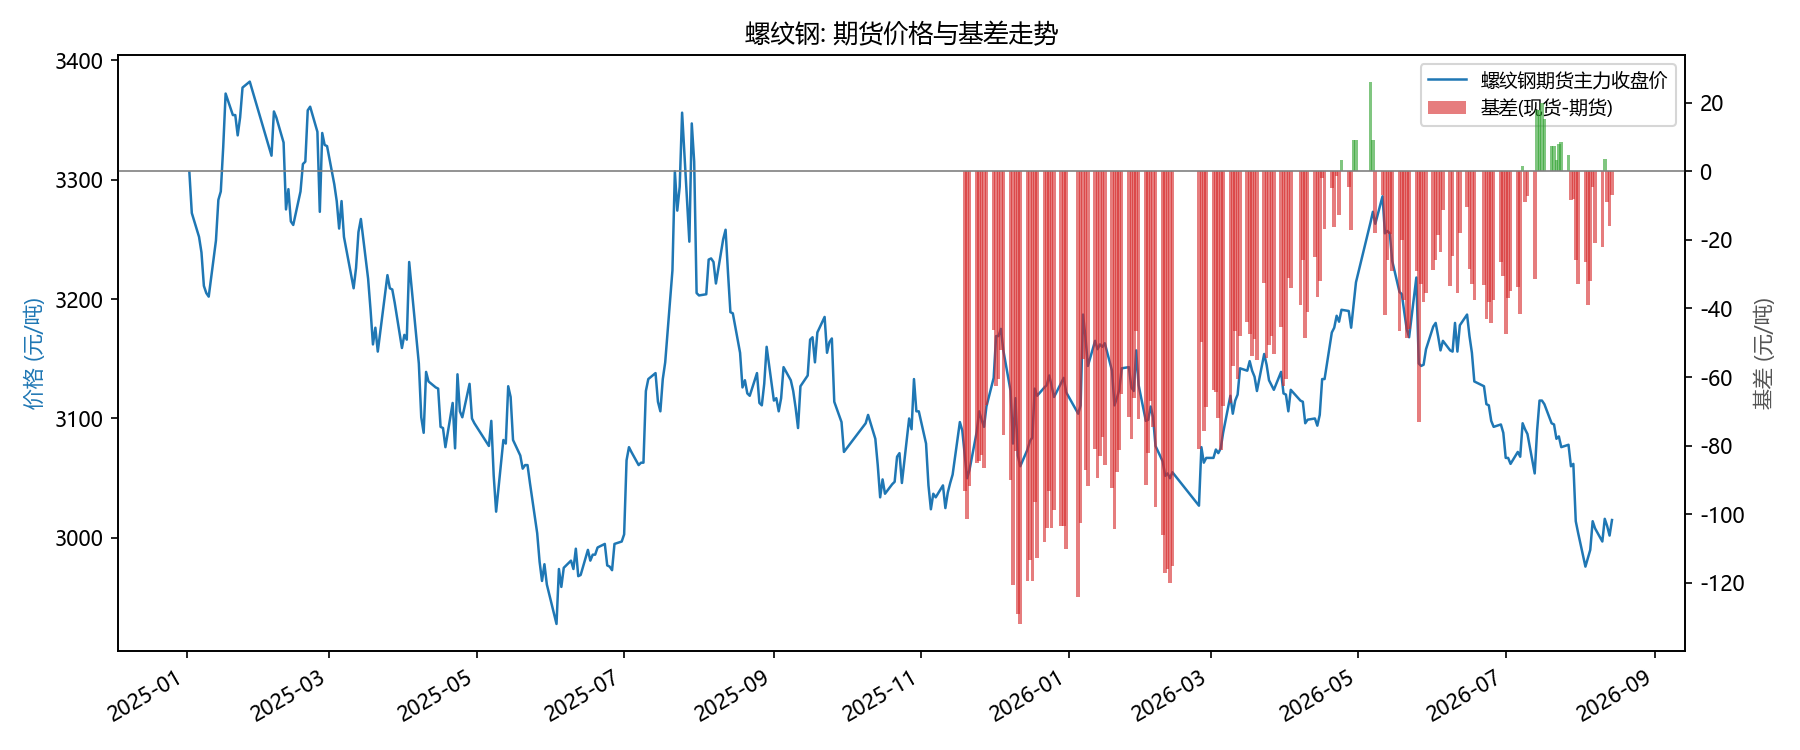
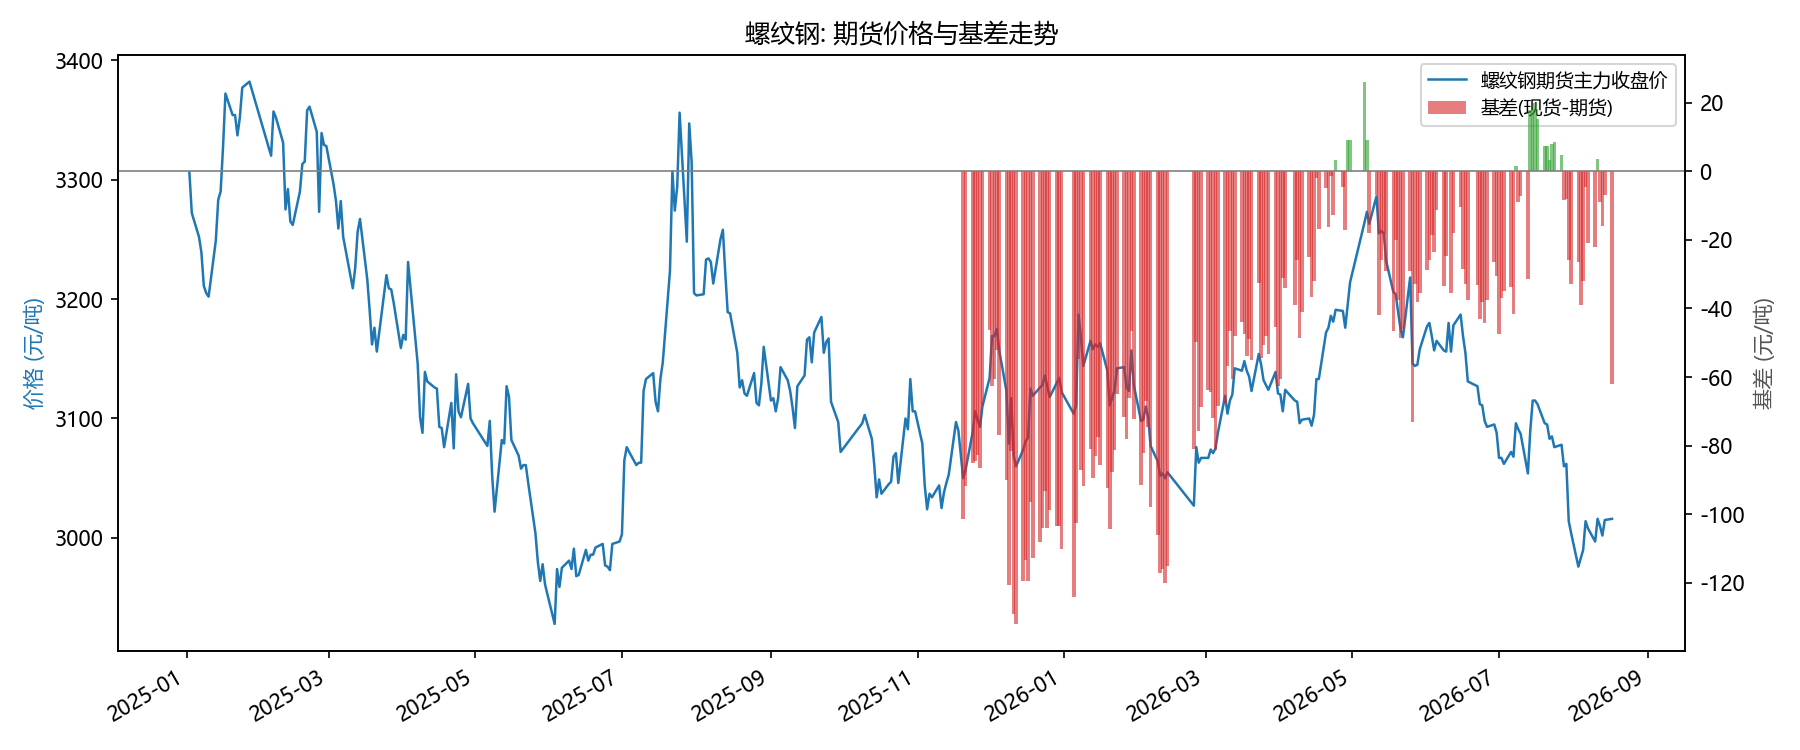
add exact data cutoff dates, refresh black series to 2026-08-17 state

diff --git a/report.html b/report.html
@@ -17,7 +17,7 @@ h1 { text-align: center; color: #222; }
 </style></head>
 <body><div class="container">
 <h1>交易绩效分析报告</h1>
-<div class="sub">数据范围：2025.01 - 2026.08 &nbsp;|&nbsp; 平仓记录：1168 笔 &nbsp;|&nbsp; 数据来源：境外合规平台导出</div>
+<div class="sub">数据范围：2025-01-18 - 2026-08-07（数据截至 2026-08-07）&nbsp;|&nbsp; 平仓记录：1168 笔 &nbsp;|&nbsp; 数据来源：境外合规平台导出</div>
 <div class="cards">
   <div class="card"><div class="num red">-338.66</div><div class="lbl">净盈亏 (单位)</div></div>
   <div class="card"><div class="num">50.4%</div><div class="lbl">胜率</div></div>
@@ -39,11 +39,11 @@ h1 { text-align: center; color: #222; }
     
 </head>
 <body >
-    <div id="caeeb1e0221e4c368c1248da33a5928b" class="chart-container" style="width:1200px; height:420px; "></div>
+    <div id="077438eab2c04fc6861d7f767296dc37" class="chart-container" style="width:1200px; height:420px; "></div>
     <script>
-        var chart_caeeb1e0221e4c368c1248da33a5928b = echarts.init(
-            document.getElementById('caeeb1e0221e4c368c1248da33a5928b'), 'white', {renderer: 'canvas', locale: 'ZH'});
-        var option_caeeb1e0221e4c368c1248da33a5928b = {
+        var chart_077438eab2c04fc6861d7f767296dc37 = echarts.init(
+            document.getElementById('077438eab2c04fc6861d7f767296dc37'), 'white', {renderer: 'canvas', locale: 'ZH'});
+        var option_077438eab2c04fc6861d7f767296dc37 = {
     "animation": true,
     "animationThreshold": 2000,
     "animationDuration": 1000,
@@ -377,7 +377,7 @@ h1 { text-align: center; color: #222; }
         }
     ]
 };
-        chart_caeeb1e0221e4c368c1248da33a5928b.setOption(option_caeeb1e0221e4c368c1248da33a5928b);
+        chart_077438eab2c04fc6861d7f767296dc37.setOption(option_077438eab2c04fc6861d7f767296dc37);
     </script>
 </body>
 </html>
@@ -391,11 +391,11 @@ h1 { text-align: center; color: #222; }
     
 </head>
 <body >
-    <div id="1b07fbb6c93c43c28e30de5eddf4e9d3" class="chart-container" style="width:1200px; height:380px; "></div>
+    <div id="08c32866d6fa42dfa3f4ae241f838a50" class="chart-container" style="width:1200px; height:380px; "></div>
     <script>
-        var chart_1b07fbb6c93c43c28e30de5eddf4e9d3 = echarts.init(
-            document.getElementById('1b07fbb6c93c43c28e30de5eddf4e9d3'), 'white', {renderer: 'canvas', locale: 'ZH'});
-        var option_1b07fbb6c93c43c28e30de5eddf4e9d3 = {
+        var chart_08c32866d6fa42dfa3f4ae241f838a50 = echarts.init(
+            document.getElementById('08c32866d6fa42dfa3f4ae241f838a50'), 'white', {renderer: 'canvas', locale: 'ZH'});
+        var option_08c32866d6fa42dfa3f4ae241f838a50 = {
     "animation": true,
     "animationThreshold": 2000,
     "animationDuration": 1000,
@@ -647,7 +647,7 @@ h1 { text-align: center; color: #222; }
         }
     ]
 };
-        chart_1b07fbb6c93c43c28e30de5eddf4e9d3.setOption(option_1b07fbb6c93c43c28e30de5eddf4e9d3);
+        chart_08c32866d6fa42dfa3f4ae241f838a50.setOption(option_08c32866d6fa42dfa3f4ae241f838a50);
     </script>
 </body>
 </html>
@@ -661,11 +661,11 @@ h1 { text-align: center; color: #222; }
     
 </head>
 <body >
-    <div id="59178b63e18d4219b29f0572c1d0d23d" class="chart-container" style="width:1200px; height:420px; "></div>
+    <div id="f6537cc224564f92a5611950752784df" class="chart-container" style="width:1200px; height:420px; "></div>
     <script>
-        var chart_59178b63e18d4219b29f0572c1d0d23d = echarts.init(
-            document.getElementById('59178b63e18d4219b29f0572c1d0d23d'), 'white', {renderer: 'canvas', locale: 'ZH'});
-        var option_59178b63e18d4219b29f0572c1d0d23d = {
+        var chart_f6537cc224564f92a5611950752784df = echarts.init(
+            document.getElementById('f6537cc224564f92a5611950752784df'), 'white', {renderer: 'canvas', locale: 'ZH'});
+        var option_f6537cc224564f92a5611950752784df = {
     "animation": true,
     "animationThreshold": 2000,
     "animationDuration": 1000,
@@ -896,7 +896,7 @@ h1 { text-align: center; color: #222; }
         }
     ]
 };
-        chart_59178b63e18d4219b29f0572c1d0d23d.setOption(option_59178b63e18d4219b29f0572c1d0d23d);
+        chart_f6537cc224564f92a5611950752784df.setOption(option_f6537cc224564f92a5611950752784df);
     </script>
 </body>
 </html>
@@ -910,11 +910,11 @@ h1 { text-align: center; color: #222; }
     
 </head>
 <body >
-    <div id="567b4e80e7834dacacb7946726074934" class="chart-container" style="width:1200px; height:320px; "></div>
+    <div id="1b9eea89c5e448cbbba7b5f50619742e" class="chart-container" style="width:1200px; height:320px; "></div>
     <script>
-        var chart_567b4e80e7834dacacb7946726074934 = echarts.init(
-            document.getElementById('567b4e80e7834dacacb7946726074934'), 'white', {renderer: 'canvas', locale: 'ZH'});
-        var option_567b4e80e7834dacacb7946726074934 = {
+        var chart_1b9eea89c5e448cbbba7b5f50619742e = echarts.init(
+            document.getElementById('1b9eea89c5e448cbbba7b5f50619742e'), 'white', {renderer: 'canvas', locale: 'ZH'});
+        var option_1b9eea89c5e448cbbba7b5f50619742e = {
     "animation": true,
     "animationThreshold": 2000,
     "animationDuration": 1000,
@@ -1136,7 +1136,7 @@ h1 { text-align: center; color: #222; }
         }
     ]
 };
-        chart_567b4e80e7834dacacb7946726074934.setOption(option_567b4e80e7834dacacb7946726074934);
+        chart_1b9eea89c5e448cbbba7b5f50619742e.setOption(option_1b9eea89c5e448cbbba7b5f50619742e);
     </script>
 </body>
 </html>
@@ -1150,11 +1150,11 @@ h1 { text-align: center; color: #222; }
     
 </head>
 <body >
-    <div id="e07ac6d6efba44e68a79681c1f10a5aa" class="chart-container" style="width:1200px; height:380px; "></div>
+    <div id="8431b029a9d34db19d740ebdd1ae1596" class="chart-container" style="width:1200px; height:380px; "></div>
     <script>
-        var chart_e07ac6d6efba44e68a79681c1f10a5aa = echarts.init(
-            document.getElementById('e07ac6d6efba44e68a79681c1f10a5aa'), 'white', {renderer: 'canvas', locale: 'ZH'});
-        var option_e07ac6d6efba44e68a79681c1f10a5aa = {
+        var chart_8431b029a9d34db19d740ebdd1ae1596 = echarts.init(
+            document.getElementById('8431b029a9d34db19d740ebdd1ae1596'), 'white', {renderer: 'canvas', locale: 'ZH'});
+        var option_8431b029a9d34db19d740ebdd1ae1596 = {
     "animation": true,
     "animationThreshold": 2000,
     "animationDuration": 1000,
@@ -1438,7 +1438,7 @@ h1 { text-align: center; color: #222; }
         }
     ]
 };
-        chart_e07ac6d6efba44e68a79681c1f10a5aa.setOption(option_e07ac6d6efba44e68a79681c1f10a5aa);
+        chart_8431b029a9d34db19d740ebdd1ae1596.setOption(option_8431b029a9d34db19d740ebdd1ae1596);
     </script>
 </body>
 </html>
@@ -1452,11 +1452,11 @@ h1 { text-align: center; color: #222; }
     
 </head>
 <body >
-    <div id="1e2ac8a8cea34669a903b071c901a63d" class="chart-container" style="width:1200px; height:340px; "></div>
+    <div id="41aad3a9a4b84b1a870cb7845bf2ebd5" class="chart-container" style="width:1200px; height:340px; "></div>
     <script>
-        var chart_1e2ac8a8cea34669a903b071c901a63d = echarts.init(
-            document.getElementById('1e2ac8a8cea34669a903b071c901a63d'), 'white', {renderer: 'canvas', locale: 'ZH'});
-        var option_1e2ac8a8cea34669a903b071c901a63d = {
+        var chart_41aad3a9a4b84b1a870cb7845bf2ebd5 = echarts.init(
+            document.getElementById('41aad3a9a4b84b1a870cb7845bf2ebd5'), 'white', {renderer: 'canvas', locale: 'ZH'});
+        var option_41aad3a9a4b84b1a870cb7845bf2ebd5 = {
     "animation": true,
     "animationThreshold": 2000,
     "animationDuration": 1000,
@@ -1782,7 +1782,7 @@ h1 { text-align: center; color: #222; }
         }
     ]
 };
-        chart_1e2ac8a8cea34669a903b071c901a63d.setOption(option_1e2ac8a8cea34669a903b071c901a63d);
+        chart_41aad3a9a4b84b1a870cb7845bf2ebd5.setOption(option_41aad3a9a4b84b1a870cb7845bf2ebd5);
     </script>
 </body>
 </html>
@@ -1796,11 +1796,11 @@ h1 { text-align: center; color: #222; }
     
 </head>
 <body >
-    <div id="6af00eff7dc8451a915f0ebe23cae3d5" class="chart-container" style="width:1200px; height:340px; "></div>
+    <div id="1f192caf495748af82b76bc7551a0acd" class="chart-container" style="width:1200px; height:340px; "></div>
     <script>
-        var chart_6af00eff7dc8451a915f0ebe23cae3d5 = echarts.init(
-            document.getElementById('6af00eff7dc8451a915f0ebe23cae3d5'), 'white', {renderer: 'canvas', locale: 'ZH'});
-        var option_6af00eff7dc8451a915f0ebe23cae3d5 = {
+        var chart_1f192caf495748af82b76bc7551a0acd = echarts.init(
+            document.getElementById('1f192caf495748af82b76bc7551a0acd'), 'white', {renderer: 'canvas', locale: 'ZH'});
+        var option_1f192caf495748af82b76bc7551a0acd = {
     "animation": true,
     "animationThreshold": 2000,
     "animationDuration": 1000,
@@ -2126,7 +2126,7 @@ h1 { text-align: center; color: #222; }
         }
     ]
 };
-        chart_6af00eff7dc8451a915f0ebe23cae3d5.setOption(option_6af00eff7dc8451a915f0ebe23cae3d5);
+        chart_1f192caf495748af82b76bc7551a0acd.setOption(option_1f192caf495748af82b76bc7551a0acd);
     </script>
 </body>
 </html>
@@ -2140,11 +2140,11 @@ h1 { text-align: center; color: #222; }
     
 </head>
 <body >
-    <div id="f12c309fe8a64b79922cebc35e1be864" class="chart-container" style="width:1200px; height:320px; "></div>
+    <div id="04171c80c01e47e18f5f282978404e1a" class="chart-container" style="width:1200px; height:320px; "></div>
     <script>
-        var chart_f12c309fe8a64b79922cebc35e1be864 = echarts.init(
-            document.getElementById('f12c309fe8a64b79922cebc35e1be864'), 'white', {renderer: 'canvas', locale: 'ZH'});
-        var option_f12c309fe8a64b79922cebc35e1be864 = {
+        var chart_04171c80c01e47e18f5f282978404e1a = echarts.init(
+            document.getElementById('04171c80c01e47e18f5f282978404e1a'), 'white', {renderer: 'canvas', locale: 'ZH'});
+        var option_04171c80c01e47e18f5f282978404e1a = {
     "animation": true,
     "animationThreshold": 2000,
     "animationDuration": 1000,
@@ -2396,7 +2396,7 @@ h1 { text-align: center; color: #222; }
         }
     ]
 };
-        chart_f12c309fe8a64b79922cebc35e1be864.setOption(option_f12c309fe8a64b79922cebc35e1be864);
+        chart_04171c80c01e47e18f5f282978404e1a.setOption(option_04171c80c01e47e18f5f282978404e1a);
     </script>
 </body>
 </html>

diff --git a/make_report.py b/make_report.py
@@ -215,7 +215,7 @@ h1 {{ text-align: center; color: #222; }}
 </style></head>
 <body><div class="container">
 <h1>交易绩效分析报告</h1>
-<div class="sub">数据范围：2025.01 - 2026.08 &nbsp;|&nbsp; 平仓记录：{len(closes)} 笔 &nbsp;|&nbsp; 数据来源：境外合规平台导出</div>
+<div class="sub">数据范围：{df["时间"].min().date()} - {df["时间"].max().date()}（数据截至 {df["时间"].max().date()}）&nbsp;|&nbsp; 平仓记录：{len(closes)} 笔 &nbsp;|&nbsp; 数据来源：境外合规平台导出</div>
 <div class="cards">
   <div class="card"><div class="num {'red' if total_pnl<0 else 'green'}">{total_pnl:+.2f}</div><div class="lbl">净盈亏 (单位)</div></div>
   <div class="card"><div class="num">{win_rate:.1f}%</div><div class="lbl">胜率</div></div>

diff --git a/README.md b/README.md
@@ -147,25 +147,27 @@ trade-performance-analysis/
 ## 黑色系商品研究(black_series.py / make_black_report.py)
 
 针对大宗商品贸易岗位的实战研究:以螺纹钢为例,建立"期货价格+现货基差+库存+盘面利润"的多维基本面跟踪框架。
+**数据截至 2026-08-17**(数据源:akshare)。
 
 | 指标 | 数值 | 解读 |
 |------|------|------|
-| 期货主力收盘 | 3015 元/吨 | 价格处于近年低位区间 |
-| 最新基差 | -7 元/吨 | 期货小幅升水 |
-| 基差率 | -0.23% | 接近平水 |
-| **基差率历史分位** | **近180日86%分位** | 基差已从年内低位(-4.14%)大幅修复,深度贴水阶段已过 |
-| 库存 | 34417 | 近30日去库-15993(旺季去库) |
-| 价格-库存相关性 | r=0.59 | 中等正相关,库存可作价格辅助判断 |
-| **盘面利润** | +618 元/吨 | 处于偏高水平,钢厂增产动力强 |
+| 期货主力收盘 | 3016 元/吨 | 价格处于近年低位区间 |
+| 最新基差 | -62 元/吨 | 期货升水走扩(现货走弱) |
+| 基差率 | -2.01% | 处于近180日36%分位(偏低) |
+| **基差率历史分位** | **近180日36%分位** | 两周内从86%分位回落——基差重新走弱,市场状态切换 |
+| 库存 | 34417 | 近30日累库 +7895(由去库转为累库) |
+| 价格-库存相关性 | r=0.49 | 中等正相关,库存可作价格辅助判断 |
+| **盘面利润** | +626 元/吨 | 处于偏高水平,钢厂增产动力强 |
 
-**正套损益测算(含资金成本,年化4.5%)**:平水收敛情景30天持有净收益 -4.2 元/吨(不覆盖资金成本),
-盈亏平衡基差 +4.2 元/吨;基差转升水 +20 元/吨时 30 天净收益 +15.8 元/吨——当前不是正套的性价比窗口。
+**正套损益测算(含资金成本,年化4.5%)**:当前基差 -62,若收敛至平水 30天净收益约 +51 元/吨;
+但累库+基差低分位背景下现货承压,基差大概率继续走弱——正套方向与趋势相悖,风险大于机会。
 
 **跟踪信号表**:以"基差分位 + 库存拐点 + 盘面利润"三维触发(正套观察/收敛止盈/正套风险/减产预期/增产压力),
-当前 S2收敛止盈、S5增产压力已触发。
+当前 S3正套风险、S5增产压力已触发。
 
-**研究结论**:去库延续支撑现货,但基差修复已部分定价该预期;研究价值在于**用量化测算排除"看起来像机会"的假机会**——
-等待基差重新走弱(分位回落至30%以下)或盘面利润收缩后的再平衡机会。
+**研究结论**:两周内框架捕捉到市场状态切换——基差分位 86%→36%、库存去库→累库、相关性 0.59→0.49。
+这正是"跟踪框架"的价值:**结论是动态的,框架是常驻的**——当前累库+基差走弱指向现货承压,
+等待库存拐点(重新去库)与基差企稳后再评估正套窗口。
 交互式报告见 [black_series/black_series_report.html](black_series/black_series_report.html)。
 
 ![价格与基差](black_series/rb_price_basis.png)
